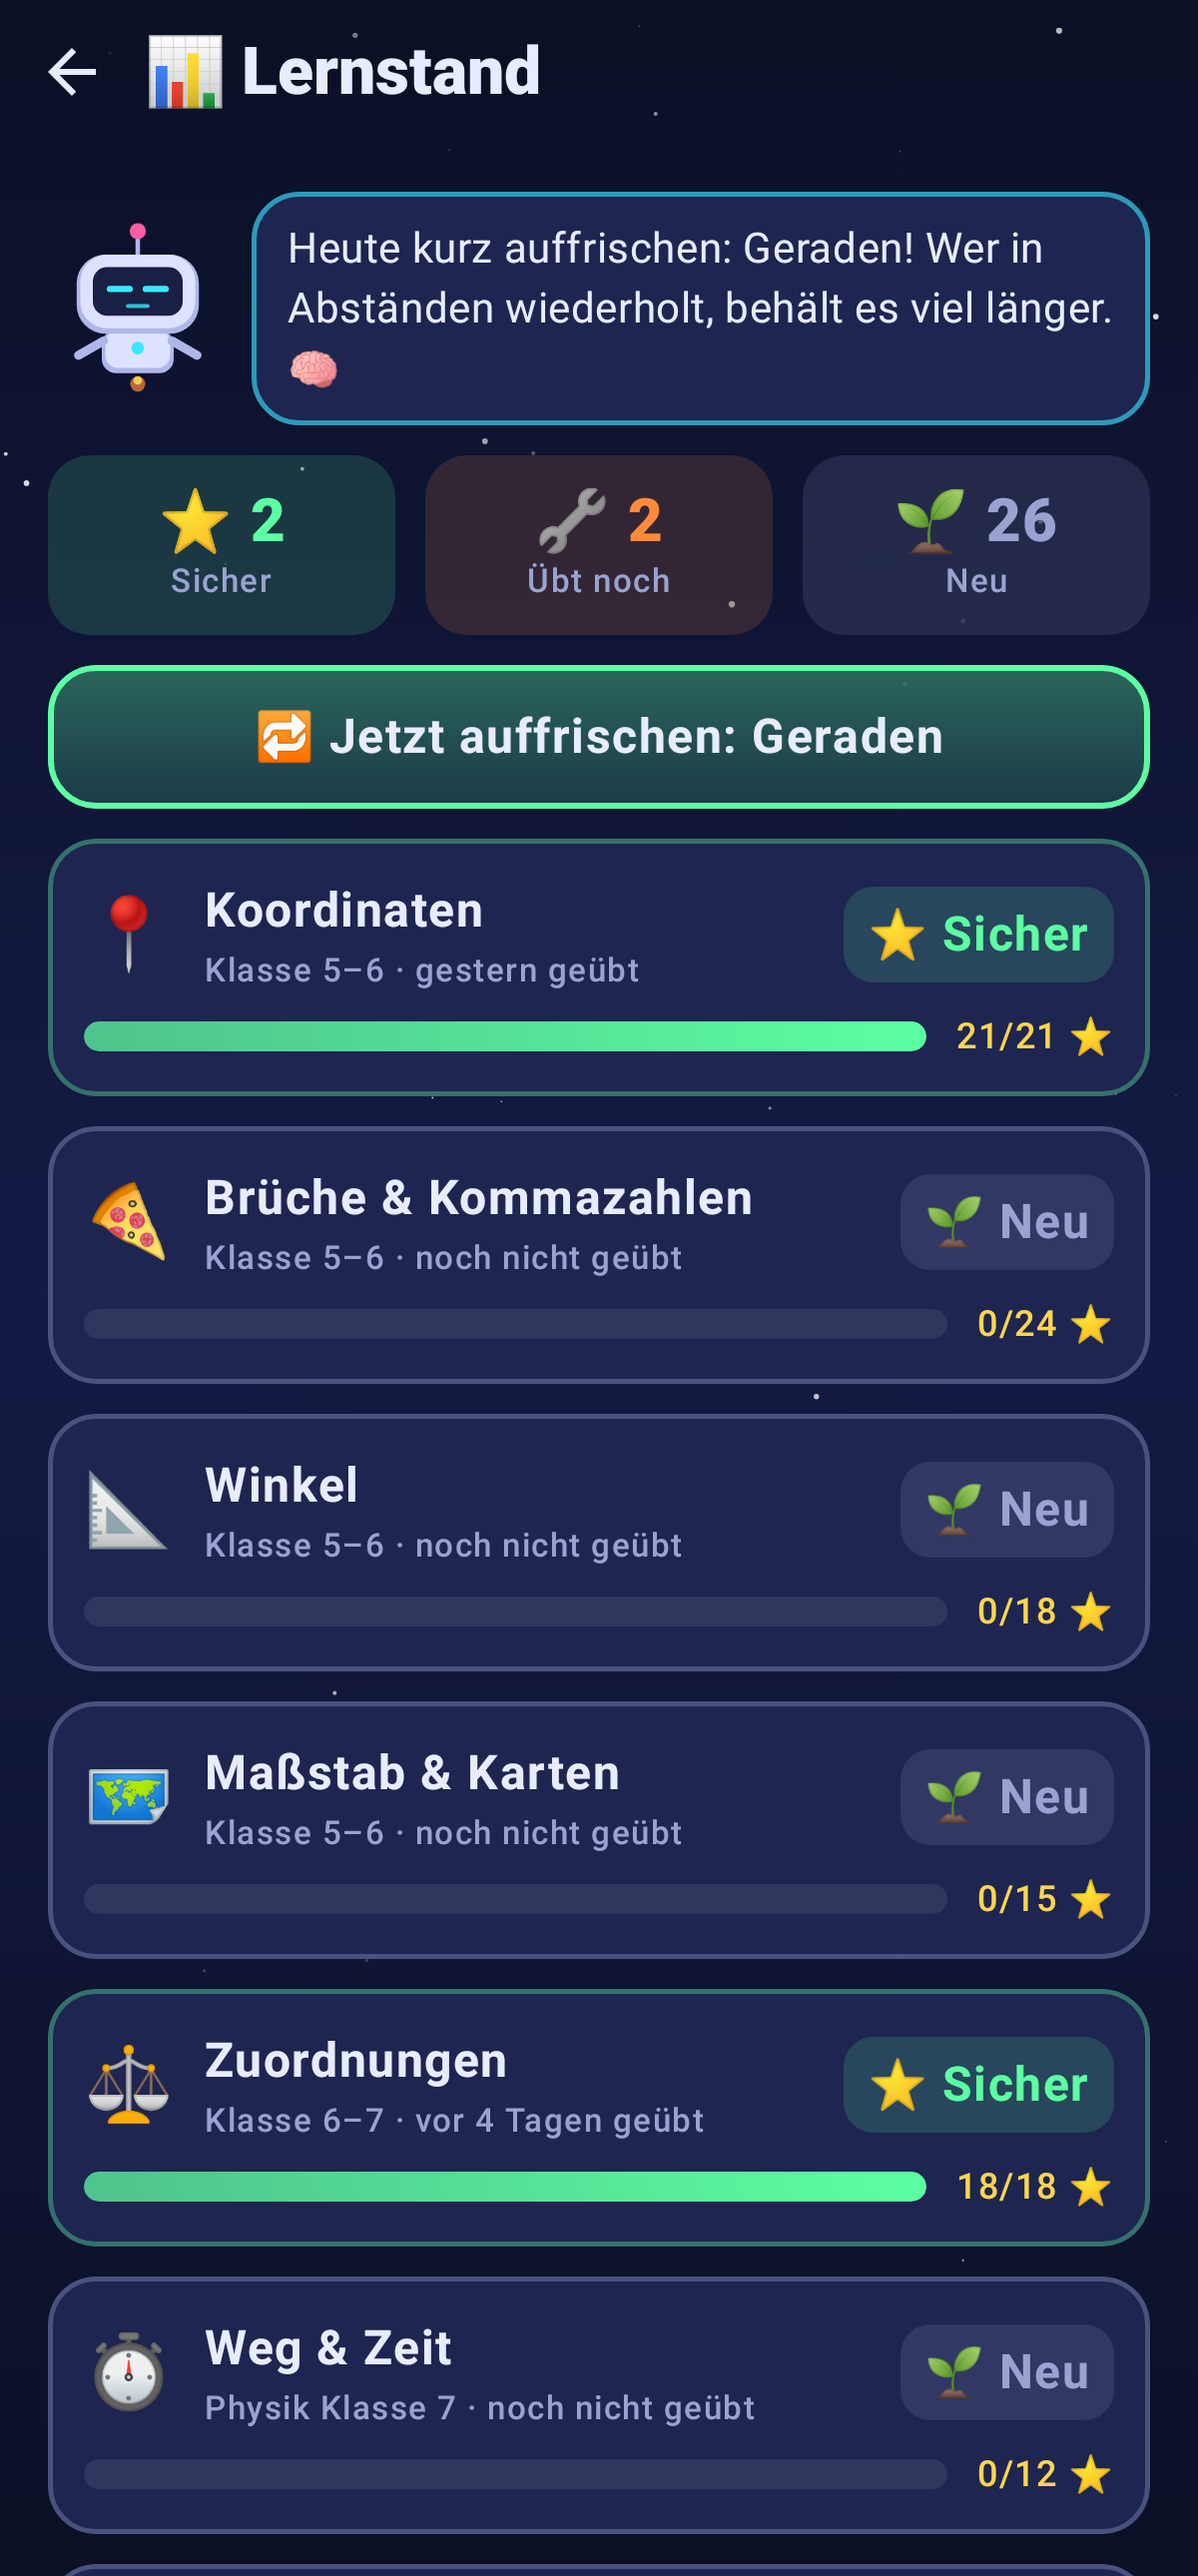
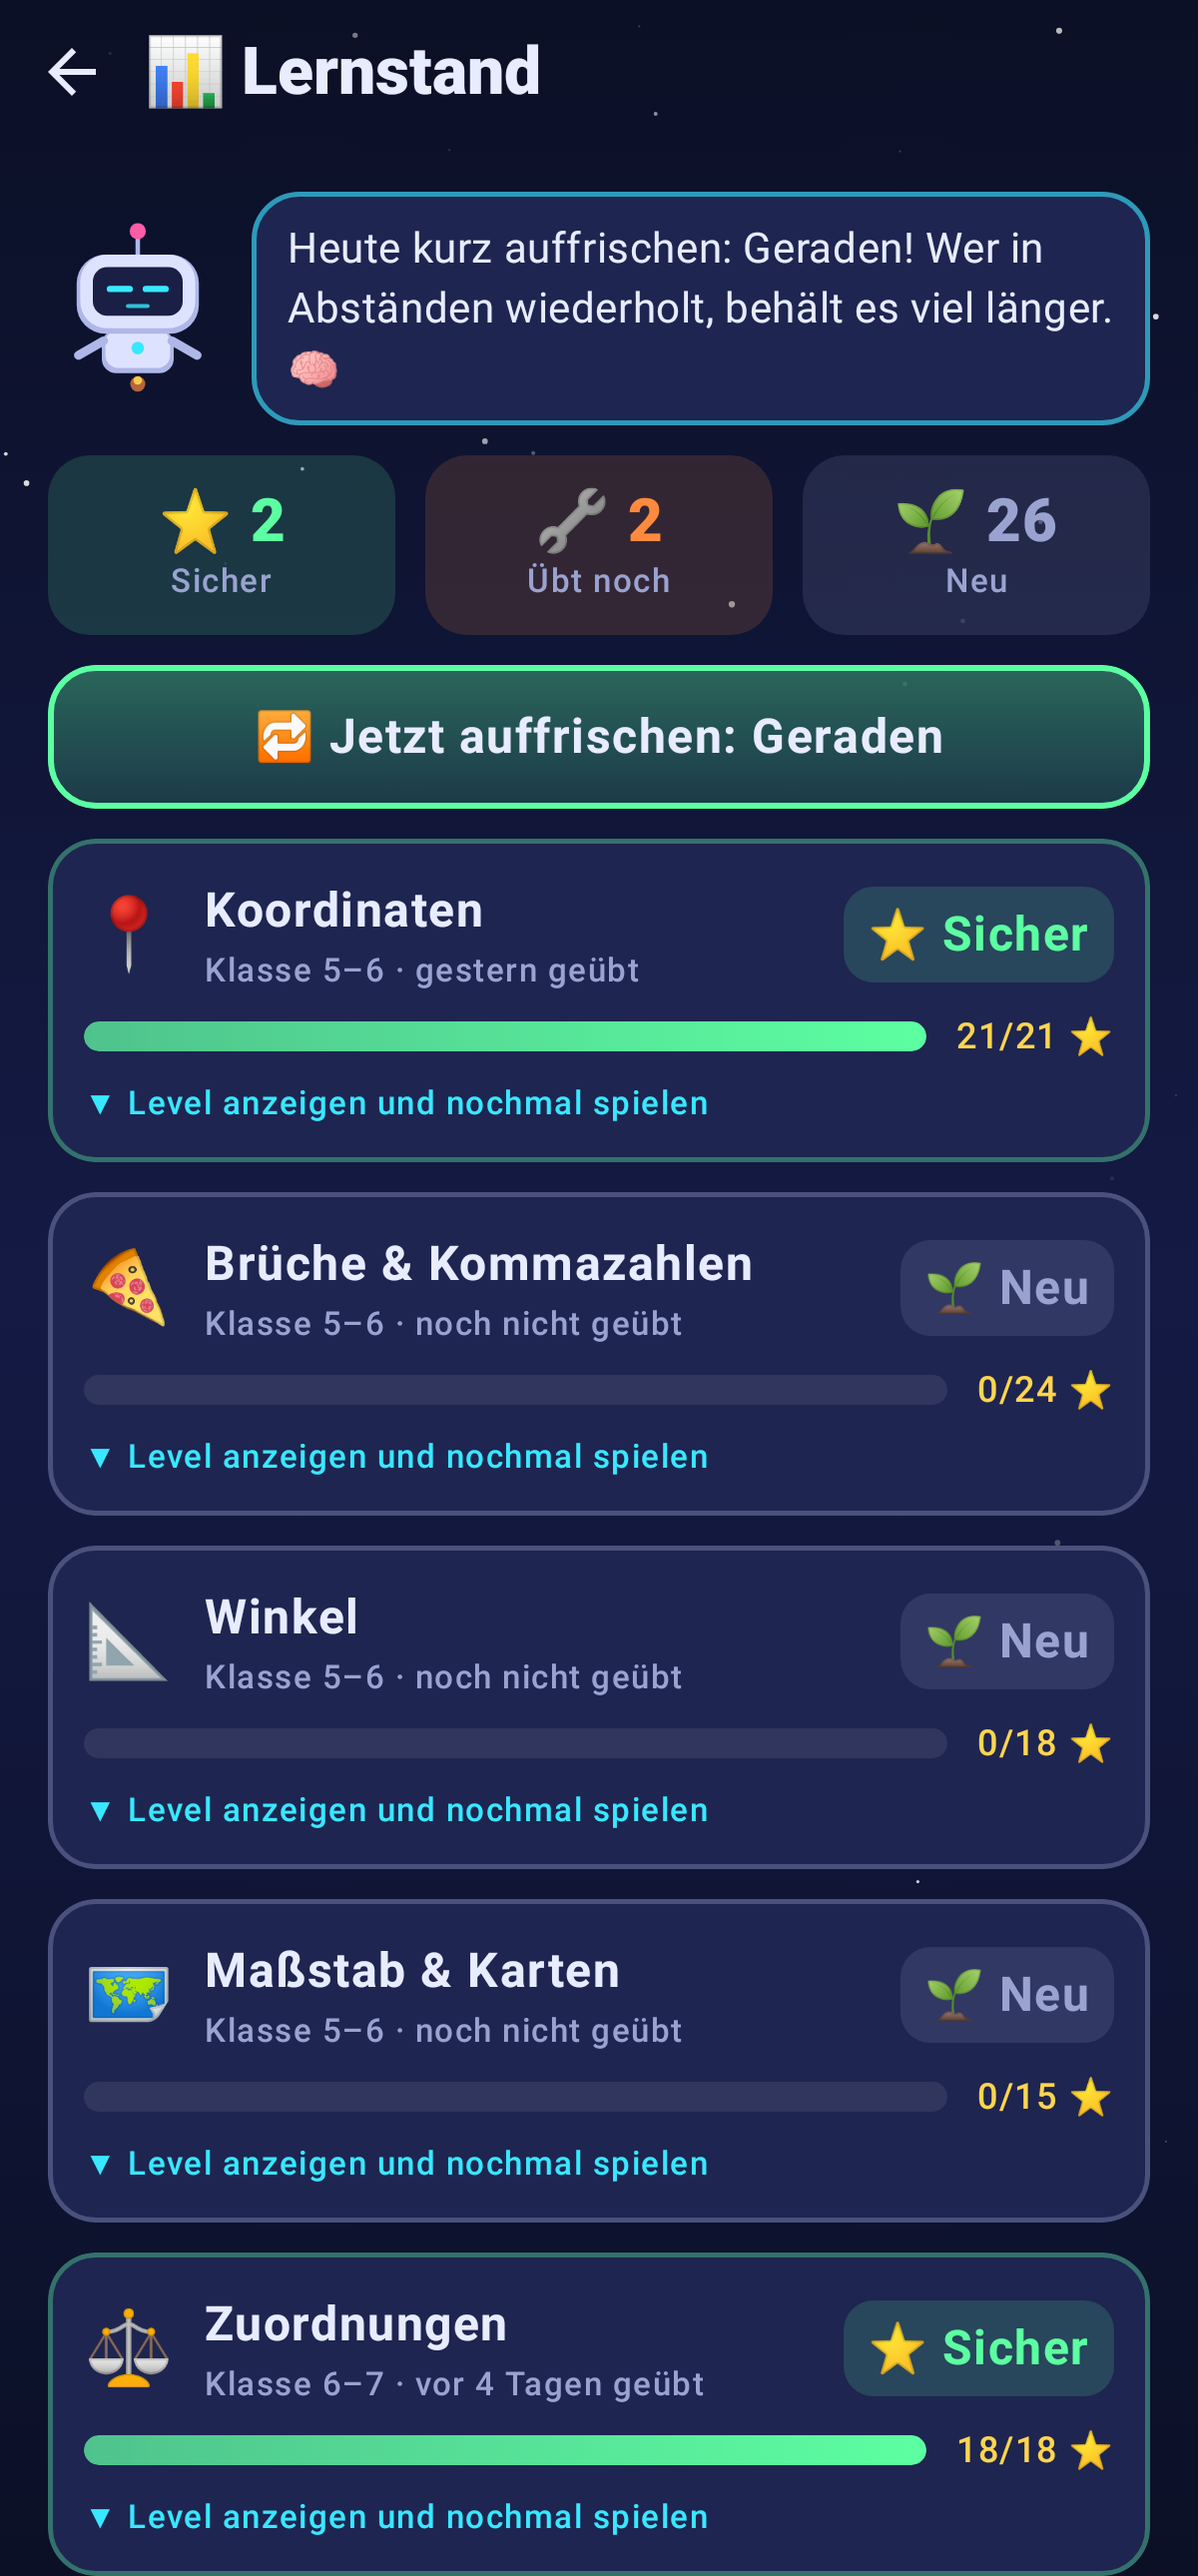
Kurvenflug 0.24.1: Lernstand-Themen klappen ihre Level auf (gezielt nochmal spielen)
Claude-Session: https://claude.ai/code/session_015vg1TniCB6sLGd2dNSJdge

Changed region(s): [[0.0308, 0.4031, 0.9867, 1.0]]

diff --git a/kurvenflug/shared/src/commonMain/kotlin/de/kurvenflug/app/ui/learning/LearningScreen.kt b/kurvenflug/shared/src/commonMain/kotlin/de/kurvenflug/app/ui/learning/LearningScreen.kt
@@ -72,7 +72,10 @@ fun LearningCard(status: List<TopicStatus>, review: Level?, onClick: () -> Unit)
  * Oben das heutige Auffrisch-Level (verteiltes Wiederholen), unten eine kurze Erklärung für Eltern.
  */
 @Composable
-fun LearningScreen(status: List<TopicStatus>, review: Level?, doneToday: Boolean, now: Long, onReview: (Level) -> Unit, onBack: () -> Unit) {
+fun LearningScreen(status: List<TopicStatus>, review: Level?, doneToday: Boolean, now: Long, onReview: (Level) -> Unit, onBack: () -> Unit,
+                   stars: Map<String, Int> = emptyMap(), onLevel: (Level) -> Unit = onReview, initialOpen: Int? = null) {
+    // Antippen eines Themas klappt seine Level auf – mit Sternen, zum gezielten Nochmal-Spielen
+    var open by androidx.compose.runtime.saveable.rememberSaveable { mutableStateOf(initialOpen) }
     val topic = review?.let { r -> status.firstOrNull { it.chapter.number == r.chapter } }
     val secure = status.count { it.mastery == Mastery.SECURE }
     val started = status.count { it.mastery != Mastery.NEW }
@@ -103,7 +106,15 @@ fun LearningScreen(status: List<TopicStatus>, review: Level?, doneToday: Boolean
                 if (review != null && topic != null) NeonButton(onClick = { onReview(review) }, color = Q.Green, modifier = Modifier.fillMaxWidth()) {
                     Text("🔁 Jetzt auffrischen: ${topic.chapter.title}", fontWeight = FontWeight.Bold)
                 }
-                status.forEachIndexed { i, s -> TopicRow(s, now, i) }
+                status.forEachIndexed { i, s ->
+                    val expanded = open == s.chapter.number
+                    TopicRow(s, now, i, expanded) { open = if (expanded) null else s.chapter.number }
+                    androidx.compose.animation.AnimatedVisibility(expanded,
+                        enter = androidx.compose.animation.expandVertically(spring(dampingRatio = 0.8f)) + androidx.compose.animation.fadeIn(),
+                        exit = androidx.compose.animation.shrinkVertically() + androidx.compose.animation.fadeOut()) {
+                        de.kurvenflug.app.ui.flight.ChapterCard(s.chapter, i, stars, onLevel, header = false)
+                    }
+                }
                 ParentNote()
                 Spacer(Modifier.height(12.dp))
             }
@@ -112,7 +123,9 @@ fun LearningScreen(status: List<TopicStatus>, review: Level?, doneToday: Boolean
 }
 
 @Composable
-private fun TopicRow(s: TopicStatus, now: Long, index: Int) {
+private fun TopicRow(s: TopicStatus, now: Long, index: Int, expanded: Boolean = false, onClick: () -> Unit = {}) {
+    val sfx = LocalSfx.current
+    val interaction = remember { MutableInteractionSource() }
     // Balken wachsen nacheinander – Fortschritt soll man sehen
     val bar = remember { Animatable(0f) }
     val pop = remember { Animatable(0.6f) }
@@ -125,7 +138,8 @@ private fun TopicRow(s: TopicStatus, now: Long, index: Int) {
     Column(
         Modifier.fillMaxWidth().graphicsLayer { scaleX = pop.value; scaleY = pop.value; alpha = pop.value.coerceIn(0f, 1f) }
             .clip(RoundedCornerShape(16.dp)).background(Q.Panel)
-            .border(1.5.dp, if (s.reviewDue) Q.Green else color.copy(alpha = 0.35f), RoundedCornerShape(16.dp)).padding(12.dp),
+            .border(1.5.dp, if (s.reviewDue) Q.Green else color.copy(alpha = 0.35f), RoundedCornerShape(16.dp))
+            .pressBounce(interaction).clickable(interaction, null) { sfx?.play(Sound.TAP); onClick() }.padding(12.dp),
         verticalArrangement = Arrangement.spacedBy(6.dp),
     ) {
         Row(verticalAlignment = Alignment.CenterVertically) {
@@ -147,6 +161,7 @@ private fun TopicRow(s: TopicStatus, now: Long, index: Int) {
             Text("${s.stars}/${s.maxStars} ⭐", style = MaterialTheme.typography.labelMedium, color = Q.Yellow)
         }
         if (s.reviewDue) Text("🔁 Mal wieder dran – kurz auffrischen hilft dem Gedächtnis", style = MaterialTheme.typography.labelSmall, color = Q.Green)
+        Text(if (expanded) "▲ Level zuklappen" else "▼ Level anzeigen und nochmal spielen", style = MaterialTheme.typography.labelSmall, color = Q.Cyan)
     }
 }
 

diff --git a/kurvenflug/app/src/test/java/de/kurvenflug/app/ui/ScreenshotTest.kt b/kurvenflug/app/src/test/java/de/kurvenflug/app/ui/ScreenshotTest.kt
@@ -203,6 +203,7 @@ class ScreenshotTest {
             de.kurvenflug.app.ui.learning.LearningScreen(Learning.status(played, now), Learning.review(played, now, day),
                 false, now, {}, {})
         }
+
     }
 
     /** Rechenweg: Volt hat den ersten Schritt vorgerechnet, das Kind ist beim zweiten. */
@@ -416,5 +417,15 @@ class ScreenshotTest {
     }
     @Test fun proUnlocked() = shot("96_pro_freigeschaltet", 2000) {
         de.kurvenflug.app.ui.pro.ProScreen(de.kurvenflug.app.ProState(pro = true, locking = true, viaPlay = true), FakeShop(true, acceptsCodes = false), {}, {})
+    }
+
+    /** Lernstand: Thema angetippt – Level mit Sternen zum gezielten Nochmal-Spielen. */
+    @Test fun learningOpen() {
+        val day = 20_500L; val now = day * Learning.DAY_MS + 43_200_000L
+        val played = Levels.chapters.first { it.number == 1 }.levels.take(5).associate { it.id to Played(if (it.number % 2 == 0) 2 else 3, now - Learning.DAY_MS) }
+        shot("97_lernstand_level", settle = 2500) {
+            de.kurvenflug.app.ui.learning.LearningScreen(Learning.status(played, now), null, false, now, {}, {},
+                stars = played.mapValues { it.value.stars }, initialOpen = 1)
+        }
     }
 }

diff --git a/kurvenflug/shared/src/commonMain/kotlin/de/kurvenflug/app/Root.kt b/kurvenflug/shared/src/commonMain/kotlin/de/kurvenflug/app/Root.kt
@@ -369,6 +369,7 @@ private fun Nav(vm: AppState, platform: Platform, incomingDuel: MutableState<Str
                 now = now,
                 onReview = { nav.goOnce(Routes.level(it.id)) },
                 onBack = { nav.popSafe() },
+                stars = stars + vm.extremeStars.collectAsStateWithLifecycle().value,
             )
         }
         composable(Routes.BADGES) { BadgesScreen(stats) { nav.popSafe() } }

diff --git a/kurvenflug/CHANGELOG.md b/kurvenflug/CHANGELOG.md
@@ -3,6 +3,10 @@
 Kurz und verständlich für Schüler und Eltern. Der Abschnitt der aktuellen Version erscheint automatisch
 im GitHub-Release und in der App unter „App-Update“.
 
+## 0.24.1 – Lernstand: Level gezielt nochmal spielen
+- **📊 Lernstand zum Antippen**: Ein Tipp auf ein Thema klappt seine Level auf – mit den Sternen, die du schon hast.
+  So siehst du sofort, wo noch Sterne fehlen, und kannst einzelne Level direkt nochmal spielen.
+
 ## 0.24.0 – Kurvenflug Pro ist da (Web und GitHub-Version)
 - **⭐ Kurvenflug Pro kaufen**: In der Web- und der GitHub-Version kann man Pro jetzt kaufen – 7,99 € einmalig inkl.
   19 % MwSt., kein Abo. Der Kauf läuft über den Shop auf mathenachhilfe-online.com (nur nach der Frage für Erwachsene).
